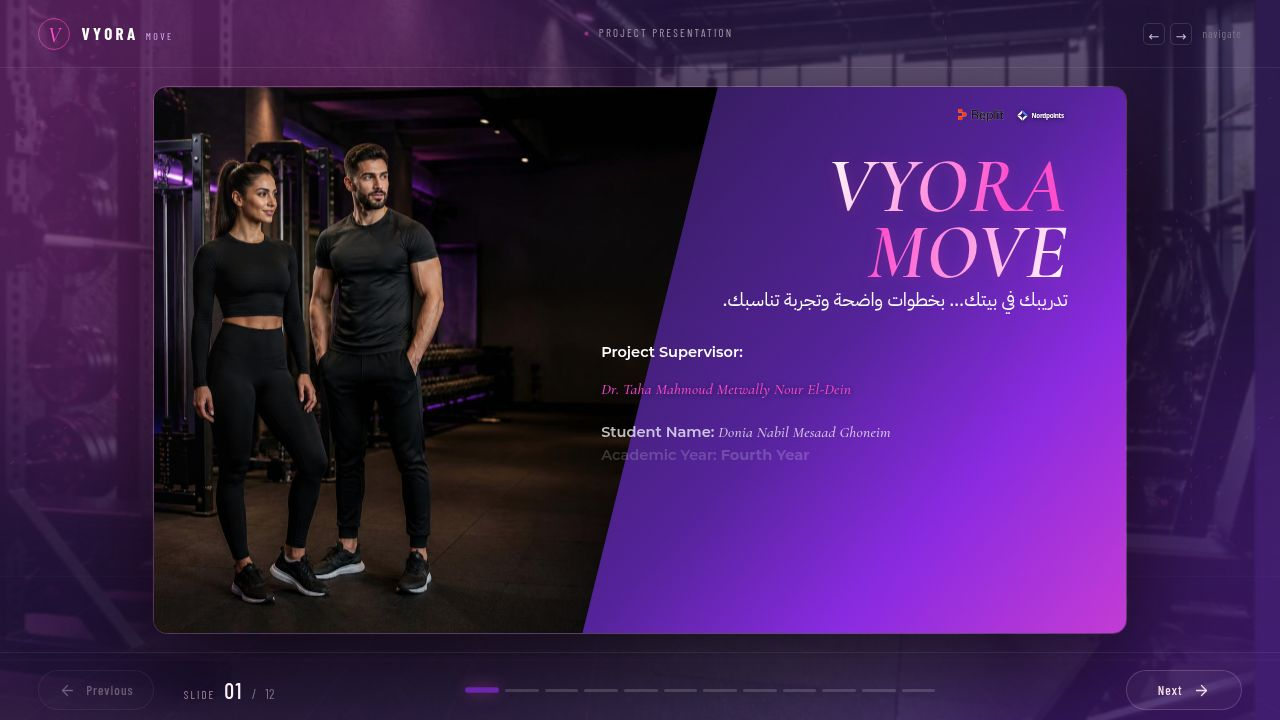
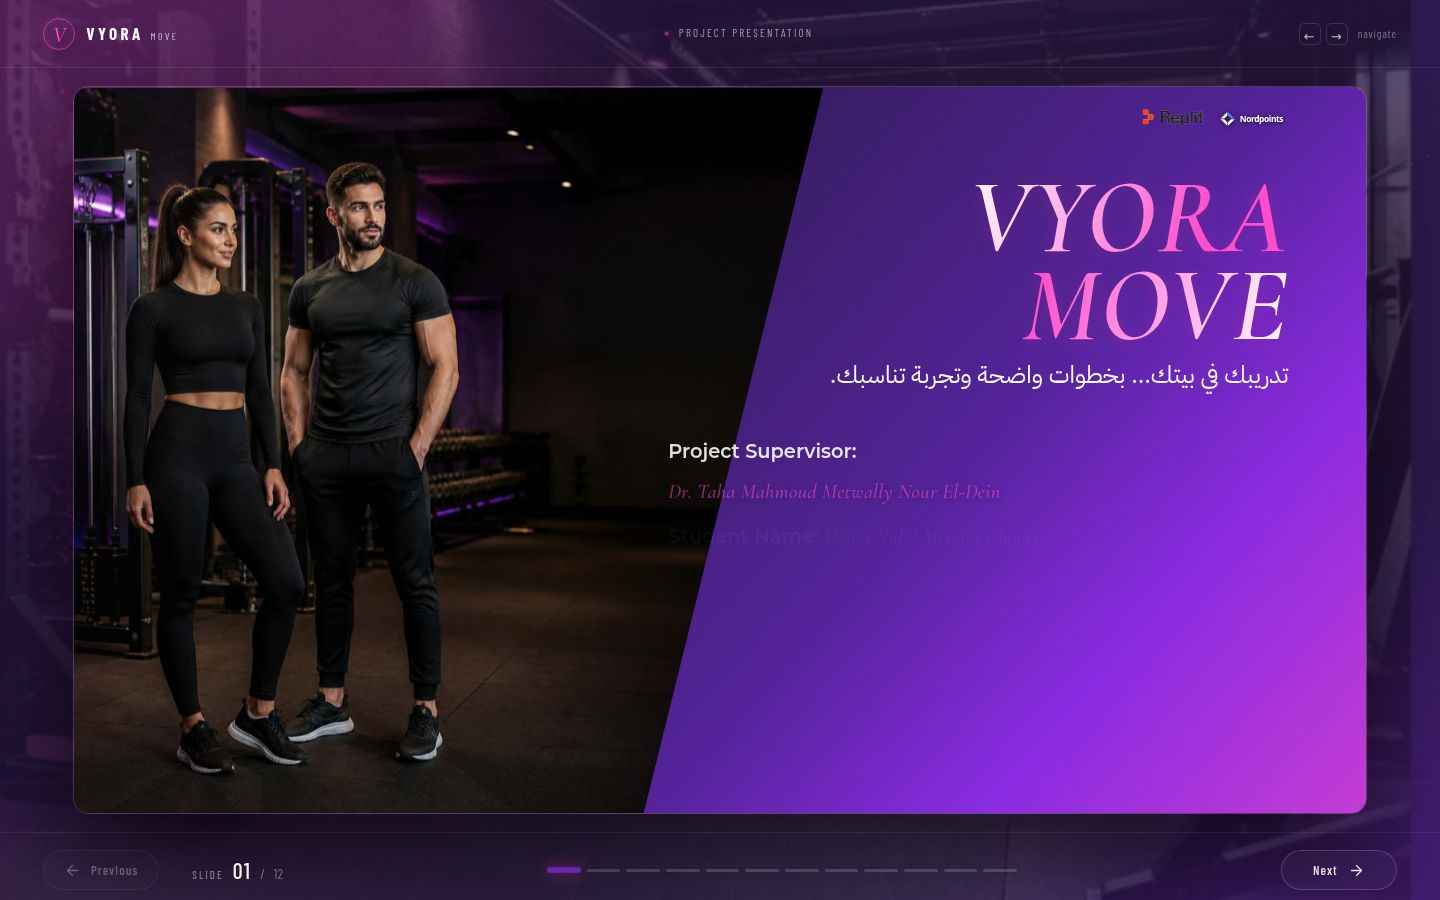
Refresh GitHub presentation preview

diff --git a/README.md b/README.md
@@ -8,10 +8,11 @@
   <a href="https://tmrynk-tdrybt-lbyt.replit.app/vyora-interactive-deck/"><strong>فتح العرض التفاعلي</strong></a>
   · <a href="deliverables/VYORA-MOVE-Project-Presentation.pdf">فتح العرض PDF</a>
   · <a href="deliverables/VYORA-MOVE-Project-Presentation.pptx">تحميل PowerPoint</a>
-  · <a href="artifacts/vyora-interactive-deck/src/App.tsx">كود العرض التفاعلي</a>
+  · <a href="artifacts/vyora-interactive-deck/src/pages/slides/">ملفات الشرائح</a>
+  · <a href="artifacts/vyora-interactive-deck/src/App.tsx">مشغّل العرض</a>
 </p>
 
-العرض التفاعلي يتكون من 12 شريحة. تظهر معاينة الغلاف هنا، ويمكن فتح ملف PDF أو PowerPoint لمشاهدة العرض، أو فتح ملف الكود لمراجعة التنفيذ.
+العرض التفاعلي يتكون من 12 شريحة. تظهر معاينة الغلاف هنا، ويمكن فتح ملف PDF أو PowerPoint لمشاهدة العرض، أو مراجعة ملفات الشرائح والكود.
 
 <p align="center">
   <a href="https://nordpoints.com/"><img src="artifacts/vyora-interactive-deck/public/media/nordpoints.svg" height="42" alt="Nordpoints logo"></a>
@@ -28,7 +29,6 @@
 
 **Created by: Donia Nabil Mesaad Ghoneim**
 
-**Academic Year:** Fourth Year — 2026
 **Project Supervisor:** Dr. Taha Mahmoud Metwally Nour El-Dein
 
 ## ملفات المشروع
